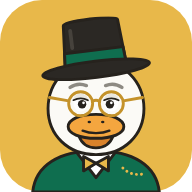
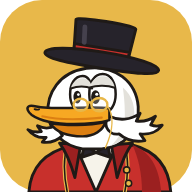
Tela cheia de verdade no Android e novo desenho do Tio Patinhas
- No app instalado, cada toque confere se as teclas do Android voltaram e pede
  tela cheia de novo; elas só aparecem ao deslizar da borda de baixo.
- Novo mascote no traço clássico: cartola, pincenê, costeletas e casaco vermelho,
  com os três humores (normal, feliz, alerta). Ícones regerados.
- Service worker tp-v4.11 para a atualização chegar sozinha.

Claude-Session: https://claude.ai/code/session_01NvH5TpkGQfaWQjU733m7Z2

diff --git a/js/mascote.js b/js/mascote.js
@@ -1,32 +1,66 @@
-// O Tio Patinhas do app: um pato idoso e econômico, de cartola, óculos redondos e gravata-borboleta.
-// Desenho original (SVG), com três humores para os conselhos: normal, feliz e alerta.
+// O Tio Patinhas do app: o pato mais rico do mundo, de cartola, pincenê, costeletas brancas e casaco vermelho.
+// Desenho em SVG no traço clássico dos desenhos animados, com três humores para os conselhos: normal, feliz e alerta.
 
-const TINTA = '#26221d';
+const TINTA = '#1f1a17';
+const PENA = '#ffffff';
+const PENA_SOMBRA = '#e3e1db';
+const BICO = '#f7a823';
+const BICO_SOMBRA = '#dc7f12';
+const BOCA_DENTRO = '#7a2418';
+const LINGUA = '#e8605a';
+const CASACO = '#c8302c';
+const CASACO_SOMBRA = '#9b2020';
+const OURO = '#e8b84a';
+const CARTOLA = '#26232b';
+const CARTOLA_LUZ = '#45414d';
 
+// Olhos de pato da Disney: dois ovais altos encostados, logo acima do bico.
 const OLHOS = {
-  // Olhar sábio, de pálpebras meio baixas.
+  // Olhar esperto, de lado, com a pálpebra de cima um pouco baixa.
   normal: `
-    <ellipse cx="84" cy="108" rx="7.5" ry="9" fill="#fff"/><ellipse cx="116" cy="108" rx="7.5" ry="9" fill="#fff"/>
-    <circle cx="85.5" cy="109.5" r="4.4" fill="${TINTA}"/><circle cx="114.5" cy="109.5" r="4.4" fill="${TINTA}"/>
-    <circle cx="87" cy="108" r="1.4" fill="#fff"/><circle cx="116" cy="108" r="1.4" fill="#fff"/>
-    <path d="M76.2 105.5C76.5 96 91.5 96 91.8 105.5c-4.6-2.4-11-2.4-15.6 0zM108.2 105.5c.3-9.5 15.3-9.5 15.6 0-4.6-2.4-11-2.4-15.6 0z" fill="#e9e6dd"/>
-    <path d="M76.4 105.3c4.6-2.4 10.8-2.4 15.2 0M108.4 105.3c4.6-2.4 10.8-2.4 15.2 0" stroke="${TINTA}" stroke-width="1.8" fill="none" stroke-linecap="round"/>
-    <path d="M73 92c5-3.6 11-4.4 17-2M127 92c-5-3.6-11-4.4-17-2" stroke="#8d8a83" stroke-width="3.6" fill="none" stroke-linecap="round"/>`,
-  // Sorrindo de olhos fechados.
+    <g stroke="${TINTA}" stroke-width="2.6">
+      <path d="M86 84c-8.5 0-13 9-13 19s4.5 18 12 18c7 0 10.5-8 10.5-18S93 84 86 84z" fill="${PENA}"/>
+      <path d="M107 82c-9.5 0-14 9.5-14 21s5 20 13.5 20 14-9 14-20-4.5-21-13.5-21z" fill="${PENA}"/>
+    </g>
+    <ellipse cx="80.5" cy="106" rx="4" ry="6.6" fill="${TINTA}"/><ellipse cx="99.5" cy="106" rx="4.6" ry="7.2" fill="${TINTA}"/>
+    <circle cx="81.6" cy="103.4" r="1.4" fill="#fff"/><circle cx="100.8" cy="103" r="1.6" fill="#fff"/>
+    <path d="M73.6 97c2-7 7-10.6 12.4-10.6S95 90 96 97c-6.6-2.4-15.6-2.4-22.4 0zM93.5 96c1.6-7.6 7.2-11.6 13.5-11.6s11.6 4.4 12.6 12c-7.6-2.8-18.6-3-26.1-.4z" fill="${PENA_SOMBRA}"/>
+    <path d="M73.6 97c6.8-2.4 15.8-2.4 22.4 0M93.5 96c7.5-2.6 18.5-2.4 26.1.4" stroke="${TINTA}" stroke-width="2.2" fill="none" stroke-linecap="round"/>`,
+  // Sorrindo de olhos fechados, satisfeito com as economias.
   feliz: `
-    <path d="M78 110c3-4.6 9-4.6 12 0M110 110c3-4.6 9-4.6 12 0" stroke="${TINTA}" stroke-width="2.8" fill="none" stroke-linecap="round"/>
-    <path d="M73 89c5-4.4 11-5.2 17-2.4M127 89c-5-4.4-11-5.2-17-2.4" stroke="#8d8a83" stroke-width="3.6" fill="none" stroke-linecap="round"/>`,
-  // Olhos arregalados e sobrancelhas preocupadas.
+    <g stroke="${TINTA}" stroke-width="2.6">
+      <path d="M86 84c-8.5 0-13 9-13 19s4.5 18 12 18c7 0 10.5-8 10.5-18S93 84 86 84z" fill="${PENA}"/>
+      <path d="M107 82c-9.5 0-14 9.5-14 21s5 20 13.5 20 14-9 14-20-4.5-21-13.5-21z" fill="${PENA}"/>
+    </g>
+    <path d="M76.5 106c2.6-6 12-6 15 0M97 105c3-6.6 14-6.6 17.4 0" stroke="${TINTA}" stroke-width="3" fill="none" stroke-linecap="round"/>`,
+  // Olhos arregalados, pupilas pequenas e sobrancelhas franzidas: alguém está gastando demais!
   alerta: `
-    <ellipse cx="84" cy="108" rx="7.5" ry="9.5" fill="#fff"/><ellipse cx="116" cy="108" rx="7.5" ry="9.5" fill="#fff"/>
-    <circle cx="84" cy="108.5" r="3.4" fill="${TINTA}"/><circle cx="116" cy="108.5" r="3.4" fill="${TINTA}"/>
-    <path d="M73 94c6-1 12-3.4 16-7.4M127 94c-6-1-12-3.4-16-7.4" stroke="#8d8a83" stroke-width="3.6" fill="none" stroke-linecap="round"/>`,
+    <g stroke="${TINTA}" stroke-width="2.6">
+      <path d="M86 82c-9 0-14 10-14 21s5 19 13 19c7.6 0 11.4-8.6 11.4-19S93.6 82 86 82z" fill="${PENA}"/>
+      <path d="M107 80c-10 0-15 10.6-15 23s5.4 21 14.4 21 15-9.6 15-21-5-23-14.4-23z" fill="${PENA}"/>
+    </g>
+    <circle cx="84" cy="104" r="3.4" fill="${TINTA}"/><circle cx="105" cy="104" r="3.8" fill="${TINTA}"/>
+    <path d="M72 90c7-.4 13-3 18-8.4M120 88c-7 .4-13-2-18-7.4" stroke="${TINTA}" stroke-width="4" fill="none" stroke-linecap="round"/>`,
 };
 
+// Bico de perfil, apontando para a esquerda, com a ponta virada para cima.
 const BOCA = {
-  normal: 'M86 137c8 3.4 20 3.4 28 0',
-  feliz: 'M84 135.5c8 5.4 24 5.4 32 0',
-  alerta: 'M89 139c7-1.6 15-1.6 22 0',
+  normal: `
+    <path d="M110 128c-18 4-42 4-58 1 6 9 18 14 34 14 12 0 21-6 24-15z" fill="${BICO_SOMBRA}" stroke="${TINTA}" stroke-width="2.6" stroke-linejoin="round"/>
+    <path d="M114 114c-16-3-42 1-68-1-8-.6-13-3-16-1.4-3 1.6-1 6 3 9 9 6.4 26 9.4 44 9.4 15 0 28-1.4 37-4z" fill="${BICO}" stroke="${TINTA}" stroke-width="2.6" stroke-linejoin="round"/>
+    <path d="M44 122c14 3.4 36 4 62 1.4" stroke="${BICO_SOMBRA}" stroke-width="2.2" fill="none" stroke-linecap="round"/>
+    <path d="M36 114.6c1.6.6 3.2.6 4.6.2" stroke="${TINTA}" stroke-width="2" fill="none" stroke-linecap="round"/>`,
+  feliz: `
+    <path d="M112 125c-18 5-44 6-62 3 5 14 19 22 36 22 15 0 24-10 26-25z" fill="${BOCA_DENTRO}" stroke="${TINTA}" stroke-width="2.6" stroke-linejoin="round"/>
+    <path d="M62 141c7-6 23-7 34-2-4 7-11 10-19 10-7 0-12-3-15-8z" fill="${LINGUA}"/>
+    <path d="M50 128c5 14 19 22 36 22 15 0 24-10 26-25" fill="none" stroke="${TINTA}" stroke-width="2.6" stroke-linejoin="round"/>
+    <path d="M114 113c-16-3-42 0-68-3-8-1-13-4-16-2.4-3 1.6-1 6 3 9.4 9 6.6 26 10 44 10 15 0 28-2 37-5z" fill="${BICO}" stroke="${TINTA}" stroke-width="2.6" stroke-linejoin="round"/>
+    <path d="M36 111.6c1.6.6 3.2.6 4.6.2" stroke="${TINTA}" stroke-width="2" fill="none" stroke-linecap="round"/>`,
+  alerta: `
+    <path d="M110 129c-18 3-40 4-56 2 4 5 16 8 30 8 12 0 21-4 26-10z" fill="${BICO_SOMBRA}" stroke="${TINTA}" stroke-width="2.6" stroke-linejoin="round"/>
+    <path d="M114 115c-16-2-42 2-68 1-8-.4-13-2.4-16-.8-3 1.6-1 5.6 3 8.4 9 6 26 8.4 44 8 15-.4 28-2 37-4.6z" fill="${BICO}" stroke="${TINTA}" stroke-width="2.6" stroke-linejoin="round"/>
+    <path d="M44 124c14 2.4 36 2.6 62 .4" stroke="${BICO_SOMBRA}" stroke-width="2.2" fill="none" stroke-linecap="round"/>
+    <path d="M36 116.4c1.6.4 3.2.4 4.6 0" stroke="${TINTA}" stroke-width="2" fill="none" stroke-linecap="round"/>`,
 };
 
 /** SVG do mascote. `humor`: normal | feliz | alerta. */
@@ -34,26 +68,33 @@ export function mascote({ humor = 'normal', titulo = 'Tio Patinhas' } = {}) {
   const h = OLHOS[humor] ? humor : 'normal';
   return `<svg class="mascote" viewBox="14 18 172 183" role="img" aria-label="${titulo}" xmlns="http://www.w3.org/2000/svg">
   <g stroke="${TINTA}" stroke-width="3" stroke-linejoin="round" stroke-linecap="round">
-    <path d="M34 201c3-28 28-43 66-43s63 15 66 43z" fill="#0f6e4f"/>
-    <path d="M80 160l20 26 20-26c-6-1.6-13-2.4-20-2.4s-14 .8-20 2.4z" fill="#fff"/>
-    <path d="M100 171l-13-7v15zM100 171l13-7v15z" fill="#e8b84a"/>
-    <path d="M100 162c-29 0-50-20-50-48 0-29 22-50 50-50s50 21 50 50c0 28-21 48-50 48z" fill="#fbfaf6"/>
-    <path d="M82 142c3 9 10 13 18 13s15-4 18-13z" fill="#d9822b"/>
-    <path d="M71 133c0-8 13-13 29-13s29 5 29 13c0 7-12 12-29 12s-29-5-29-12z" fill="#f4a63f"/>
+    <path d="M30 201c2-26 18-42 44-48l30-4 34 3c24 6 38 22 40 49z" fill="${CASACO}"/>
+    <path d="M138 152c18 7 28 22 30 49h-20c0-20-4-36-10-49z" fill="${CASACO_SOMBRA}" stroke="none"/>
+    <path d="M78 151l22 50 22-50" fill="#f6f3ea"/>
+    <path d="M100 160l-12-8.6-3 13.6zM100 160l12-8.6 3 13.6z" fill="${CARTOLA}"/>
+    <path d="M70 152c-4 14-4 30 0 49M130 152c4 14 4 30 0 49" fill="none" stroke="${OURO}" stroke-width="4"/>
+    <path d="M70 152c-4 14-4 30 0 49M130 152c4 14 4 30 0 49" fill="none" stroke-width="1.6"/>
+    <path d="M62 150c6 8 12 22 16 36l6-34zM138 150c-6 8-12 22-16 36l-6-34z" fill="${CASACO_SOMBRA}"/>
   </g>
-  <path d="M128 176c6 6 14 8 22 6" stroke="#e8b84a" stroke-width="3" fill="none" stroke-linecap="round" stroke-dasharray="0.1 5.2"/>
-  <path d="${BOCA[h]}" stroke="${TINTA}" stroke-width="2.4" fill="none" stroke-linecap="round"/>
-  <ellipse cx="93" cy="128" rx="1.8" ry="1.3" fill="${TINTA}"/><ellipse cx="107" cy="128" rx="1.8" ry="1.3" fill="${TINTA}"/>
-  ${OLHOS[h]}
-  <g fill="none" stroke="#c4922a" stroke-width="3" stroke-linecap="round">
-    <circle cx="84" cy="109" r="12.5"/><circle cx="116" cy="109" r="12.5"/>
-    <path d="M96.5 106.5c2.3-1.6 4.7-1.6 7 0M71.5 106l-20-3.5M128.5 106l20-3.5"/>
+  <circle cx="132" cy="178" r="3.2" fill="${OURO}" stroke="${TINTA}" stroke-width="1.6"/><circle cx="134" cy="192" r="3.2" fill="${OURO}" stroke="${TINTA}" stroke-width="1.6"/>
+  <g stroke="${TINTA}" stroke-width="3" stroke-linejoin="round" stroke-linecap="round">
+    <path d="M86 156c-20-3-34-17-36-36-2-22 12-44 40-48 30-4 52 14 54 40 2 24-14 42-38 44z" fill="${PENA}"/>
+    <path d="M128 92c10 8 14 22 11 36-3 12-12 21-24 25 10-8 16-22 15-36 0-9-1-17-2-25z" fill="${PENA_SOMBRA}" stroke="none"/>
+    <path d="M114 122c10 5 22 4 32-3l-4 8c7 1 14-1 20-5l-5 9c4 1.6 8 1.6 12 .4-5 7-14 10-23 9l5 7c-10 2-20-1-27-7-6 1-11-2-13-7-2-4 0-8 3-11.4z" fill="${PENA}"/>
+    <path d="M58 132c-6 3-13 3-19 0l4 6c-5 1-10 0-14-2 5 6 12 9 19 8l-4 5c8 1 16-2 21-7z" fill="${PENA}"/>
   </g>
-  <g transform="rotate(-7 100 72)" stroke="${TINTA}" stroke-width="3" stroke-linejoin="round">
-    <path d="M68 70l3.5-46c.4-5 56.6-5 57 0l3.5 46z" fill="#2b2824"/>
-    <path d="M69.3 53h61.4l1.3 17h-64z" fill="#0f6e4f"/>
-    <ellipse cx="100" cy="73" rx="56" ry="8.5" fill="#2b2824"/>
-    <path d="M78 30v18" stroke="#46423c" stroke-width="4" stroke-linecap="round"/>
+  <g transform="translate(0 -4)">${OLHOS[h]}</g>
+  ${BOCA[h]}
+  <g fill="none" stroke="${OURO}" stroke-width="2.4" stroke-linecap="round">
+    <ellipse cx="84" cy="110" rx="7.4" ry="6.4" fill="rgba(255,255,255,.22)"/><ellipse cx="103.5" cy="110" rx="8.4" ry="7" fill="rgba(255,255,255,.22)"/>
+    <path d="M91.4 108.6c1.2-1.6 2.8-1.6 4 0"/>
+    <path d="M111.8 111c7 10 6 26-2 44" stroke-width="1.4"/>
+  </g>
+  <g transform="translate(2 -7) rotate(9 104 72)" stroke="${TINTA}" stroke-width="3" stroke-linejoin="round">
+    <path d="M74 70l-3.4-37c-.4-4 63.2-4 63.2 0l-3.4 37z" fill="${CARTOLA}"/>
+    <path d="M73 58h58l-1 12H74z" fill="${CASACO}"/>
+    <path d="M44 72c0-6 26-10 60-10s60 4 60 10-26 7-60 7-60-1-60-7z" fill="${CARTOLA}"/>
+    <path d="M81 39l1.8 16" stroke="${CARTOLA_LUZ}" stroke-width="5" stroke-linecap="round"/>
   </g>
 </svg>`;
 }

diff --git a/js/app.js b/js/app.js
@@ -195,6 +195,22 @@ function cartaoInstalar() {
     </section>`;
 }
 
+// ---------------------------------------------------------------- Tela cheia
+// O manifest pede tela cheia, mas o Android só aplica isso quando o Chrome atualiza o app instalado
+// (pode levar dias) e às vezes devolve as teclas depois que o teclado fecha. Por isso, no app instalado,
+// cada toque confere e, se as teclas voltaram, pede tela cheia de novo: elas somem e só aparecem
+// quando você desliza o dedo da borda de baixo para cima.
+// O pedido vai depois do toque (setTimeout) para não roubar a permissão de quem precisa dele,
+// como o seletor de foto/arquivo.
+function pedirTelaCheia() {
+  if (document.fullscreenElement || !document.fullscreenEnabled || !instalado()) return;
+  setTimeout(() => {
+    if (document.fullscreenElement) return;
+    document.documentElement.requestFullscreen({ navigationUI: 'hide' }).catch(() => { /* sem permissão: tenta no próximo toque */ });
+  }, 0);
+}
+document.addEventListener('click', pedirTelaCheia, true);
+
 document.addEventListener('click', (e) => {
   if (e.target.closest('[data-instalar]')) instalar();
   if (e.target.closest('[data-instalar-depois]')) {

diff --git a/sw.js b/sw.js
@@ -1,5 +1,5 @@
 // Service worker: deixa o app abrir rápido e funcionar offline.
-const VERSAO = 'tp-v4.10';
+const VERSAO = 'tp-v4.11';
 const ARQUIVOS = [
   './', './index.html', './css/style.css', './manifest.webmanifest',
   './js/app.js', './js/config.js', './js/store.js', './js/parser.js', './js/analise.js', './js/extrato.js',
